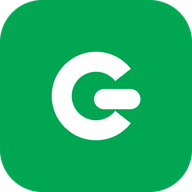
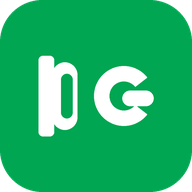
Corrige o cache que congelava o icone, e refaz o icone com a sigla DG
Duas coisas, e a segunda veio do primeiro.

O dono reclamou que o icone aparecia 'so um verde sem a sigla DG'.
Os arquivos estavam certos (a letra estava desenhada), entao o
problema era outro: o service worker guardava imagens em 'cache
primeiro' e nunca mais atualizava. Como o nome do arquivo nao muda,
o icone antigo continuava sendo servido para sempre.

Corrigido:
- Cache das imagens passou a revalidar em segundo plano: mostra a que
  tem e ja busca a nova por tras, entao atualiza sozinho
- Versao do cache trocada, o que descarta o icone antigo guardado
- Icones com versao (?v=) no manifest e nas paginas, para nao
  depender so do service worker

E o icone passou a ser a sigla DG, e nao a letra D solta: o dono
pediu a sigla, que e o que identifica a farmacia. D e G lado a
lado, com o G tendo a barra horizontal que o diferencia do C.

Observacao: o desenho e feito com formas, sem depender de fonte
instalada. Se a farmacia tiver o logo oficial em arquivo, vale mais
usar o original — o dono disse que tem um, em repositorio privado.

Changed region(s): [[0.1875, 0.25, 0.8125, 0.75]]

diff --git a/sw.js b/sw.js
@@ -11,7 +11,7 @@
  * ver um site congelado com preço antigo.
  */
 
-const VERSAO = 'drogag-v1';
+const VERSAO = 'drogag-v2';
 const CACHE_IMAGENS = VERSAO + '-img';
 const CACHE_PAGINAS = VERSAO + '-pag';
 
@@ -59,16 +59,23 @@ self.addEventListener('fetch', (evento) => {
   const ehImagem = /\.(png|jpe?g|webp|gif|svg|ico|woff2?)$/i.test(url.pathname);
   const ehDocumento = req.mode === 'navigate' || /\.(html|css|js)$/i.test(url.pathname);
 
-  // Imagens: cache primeiro (são grandes e não mudam)
+  /* Imagens: mostra a que esta no cache e ja busca a nova por tras.
+     Antes era "cache primeiro" e nunca mais atualizava: quando o icone
+     do app mudou de letra, o celular continuou mostrando o antigo para
+     sempre, porque o nome do arquivo e o mesmo. */
   if (ehImagem) {
     evento.respondWith(
-      caches.match(req).then((achado) => achado || fetch(req).then((resp) => {
-        if (resp && resp.ok) {
-          const copia = resp.clone();
-          caches.open(CACHE_IMAGENS).then((c) => c.put(req, copia));
-        }
-        return resp;
-      }).catch(() => caches.match('img/favicon-32.png')))
+      caches.open(CACHE_IMAGENS).then((cache) => {
+        return cache.match(req).then((guardado) => {
+          const atualizar = fetch(req).then((resp) => {
+            if (resp && resp.ok) cache.put(req, resp.clone());
+            return resp;
+          }).catch(() => null);
+          // mostra na hora o que tem e atualiza sozinho
+          if (guardado) return guardado;
+          return atualizar.then((r) => r || caches.match('img/favicon-32.png'));
+        });
+      })
     );
     return;
   }

diff --git a/contato.html b/contato.html
@@ -13,7 +13,7 @@
     <link href="https://fonts.googleapis.com/css2?family=Inter:opsz,wght@14..32,300;14..32,400;14..32,500;14..32,600;14..32,700;14..32,800&display=swap" rel="stylesheet">
     <link rel="stylesheet" href="https://cdnjs.cloudflare.com/ajax/libs/font-awesome/6.4.0/css/all.min.css">
     <link rel="icon" href="favicon.ico" sizes="any">
-    <link rel="apple-touch-icon" href="img/app-icon-192.png">
+    <link rel="apple-touch-icon" href="img/app-icon-192.png?v=20261015z">
     <link rel="manifest" href="manifest.json">
     <meta name="apple-mobile-web-app-capable" content="yes">
     <meta name="apple-mobile-web-app-title" content="Droga G">

diff --git a/farmacia-popular.html b/farmacia-popular.html
@@ -13,7 +13,7 @@
     <link href="https://fonts.googleapis.com/css2?family=Inter:opsz,wght@14..32,300;14..32,400;14..32,500;14..32,600;14..32,700;14..32,800&display=swap" rel="stylesheet">
     <link rel="stylesheet" href="https://cdnjs.cloudflare.com/ajax/libs/font-awesome/6.4.0/css/all.min.css">
     <link rel="icon" href="favicon.ico" sizes="any">
-    <link rel="apple-touch-icon" href="img/app-icon-192.png">
+    <link rel="apple-touch-icon" href="img/app-icon-192.png?v=20261015z">
     <link rel="manifest" href="manifest.json">
     <meta name="apple-mobile-web-app-capable" content="yes">
     <meta name="apple-mobile-web-app-title" content="Droga G">

diff --git a/servicos.html b/servicos.html
@@ -13,7 +13,7 @@
     <link href="https://fonts.googleapis.com/css2?family=Inter:opsz,wght@14..32,300;14..32,400;14..32,500;14..32,600;14..32,700;14..32,800&display=swap" rel="stylesheet">
     <link rel="stylesheet" href="https://cdnjs.cloudflare.com/ajax/libs/font-awesome/6.4.0/css/all.min.css">
     <link rel="icon" href="favicon.ico" sizes="any">
-    <link rel="apple-touch-icon" href="img/app-icon-192.png">
+    <link rel="apple-touch-icon" href="img/app-icon-192.png?v=20261015z">
     <link rel="manifest" href="manifest.json">
     <meta name="apple-mobile-web-app-capable" content="yes">
     <meta name="apple-mobile-web-app-title" content="Droga G">

diff --git a/sobre.html b/sobre.html
@@ -13,7 +13,7 @@
     <link href="https://fonts.googleapis.com/css2?family=Inter:opsz,wght@14..32,300;14..32,400;14..32,500;14..32,600;14..32,700;14..32,800&display=swap" rel="stylesheet">
     <link rel="stylesheet" href="https://cdnjs.cloudflare.com/ajax/libs/font-awesome/6.4.0/css/all.min.css">
     <link rel="icon" href="favicon.ico" sizes="any">
-    <link rel="apple-touch-icon" href="img/app-icon-192.png">
+    <link rel="apple-touch-icon" href="img/app-icon-192.png?v=20261015z">
     <link rel="manifest" href="manifest.json">
     <meta name="apple-mobile-web-app-capable" content="yes">
     <meta name="apple-mobile-web-app-title" content="Droga G">

diff --git a/perguntas.html b/perguntas.html
@@ -6,7 +6,7 @@
     <title>Perguntas Frequentes - Farmácia Droga G</title>
     <meta name="description" content="Dúvidas sobre entrega, preço, estoque, remédio com receita e pagamento na Farmácia Droga G, Santa Terezinha, Belo Horizonte.">
     <link rel="icon" href="favicon.ico" sizes="any">
-    <link rel="apple-touch-icon" href="img/app-icon-192.png">
+    <link rel="apple-touch-icon" href="img/app-icon-192.png?v=20261015z">
     <link rel="manifest" href="manifest.json">
     <meta name="apple-mobile-web-app-capable" content="yes">
     <meta name="apple-mobile-web-app-title" content="Droga G">

diff --git a/privacidade.html b/privacidade.html
@@ -5,7 +5,7 @@
     <meta name="viewport" content="width=device-width, initial-scale=1.0">
     <title>Política de Privacidade - Farmácia Droga G</title>
     <link rel="icon" href="favicon.ico" sizes="any">
-    <link rel="apple-touch-icon" href="img/app-icon-192.png">
+    <link rel="apple-touch-icon" href="img/app-icon-192.png?v=20261015z">
     <link rel="manifest" href="manifest.json">
     <meta name="apple-mobile-web-app-capable" content="yes">
     <meta name="apple-mobile-web-app-title" content="Droga G">

diff --git a/index.html b/index.html
@@ -5,7 +5,7 @@
     <meta name="viewport" content="width=device-width, initial-scale=1.0">
     <title>Farmácia Droga G | Santa Terezinha, BH</title>
     <link rel="icon" href="favicon.ico" sizes="any">
-    <link rel="apple-touch-icon" href="img/app-icon-192.png">
+    <link rel="apple-touch-icon" href="img/app-icon-192.png?v=20261015z">
     <link rel="manifest" href="manifest.json">
     <meta name="apple-mobile-web-app-capable" content="yes">
     <meta name="apple-mobile-web-app-title" content="Droga G">

diff --git a/favoritos.html b/favoritos.html
@@ -5,7 +5,7 @@
     <meta name="viewport" content="width=device-width, initial-scale=1.0">
     <title>Meus Favoritos - Farmácia Droga G</title>
     <link rel="icon" href="favicon.ico" sizes="any">
-    <link rel="apple-touch-icon" href="img/app-icon-192.png">
+    <link rel="apple-touch-icon" href="img/app-icon-192.png?v=20261015z">
     <link rel="manifest" href="manifest.json">
     <meta name="apple-mobile-web-app-capable" content="yes">
     <meta name="apple-mobile-web-app-title" content="Droga G">

diff --git a/carrinho.html b/carrinho.html
@@ -5,7 +5,7 @@
     <meta name="viewport" content="width=device-width, initial-scale=1.0">
     <title>Meu Pedido - Farmácia Droga G</title>
     <link rel="icon" href="favicon.ico" sizes="any">
-    <link rel="apple-touch-icon" href="img/app-icon-192.png">
+    <link rel="apple-touch-icon" href="img/app-icon-192.png?v=20261015z">
     <link rel="manifest" href="manifest.json">
     <meta name="apple-mobile-web-app-capable" content="yes">
     <meta name="apple-mobile-web-app-title" content="Droga G">

diff --git a/lojas.html b/lojas.html
@@ -5,7 +5,7 @@
     <meta name="viewport" content="width=device-width, initial-scale=1.0">
     <title>Nossa Loja - Farmácia Droga G</title>
     <link rel="icon" href="favicon.ico" sizes="any">
-    <link rel="apple-touch-icon" href="img/app-icon-192.png">
+    <link rel="apple-touch-icon" href="img/app-icon-192.png?v=20261015z">
     <link rel="manifest" href="manifest.json">
     <meta name="apple-mobile-web-app-capable" content="yes">
     <meta name="apple-mobile-web-app-title" content="Droga G">

diff --git a/produtos.html b/produtos.html
@@ -5,7 +5,7 @@
     <meta name="viewport" content="width=device-width, initial-scale=1.0">
     <title>Produtos - Farmácia Droga G</title>
     <link rel="icon" href="favicon.ico" sizes="any">
-    <link rel="apple-touch-icon" href="img/app-icon-192.png">
+    <link rel="apple-touch-icon" href="img/app-icon-192.png?v=20261015z">
     <link rel="manifest" href="manifest.json">
     <meta name="apple-mobile-web-app-capable" content="yes">
     <meta name="apple-mobile-web-app-title" content="Droga G">
